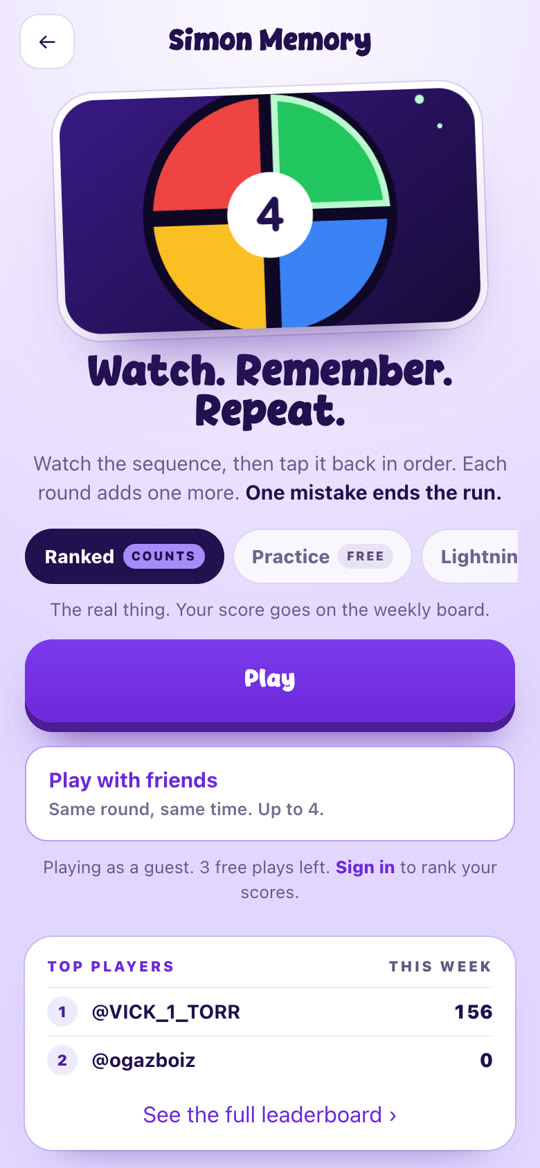
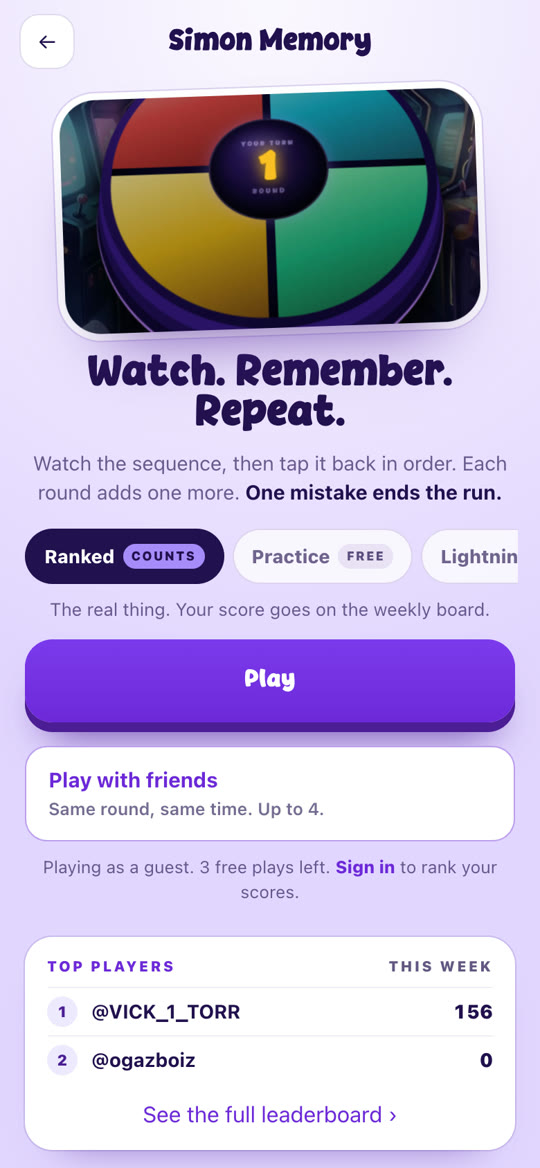
Game cards show the real game
The Stack Tower, Simon Memory, Rhythm Rush and Challenge AI cards are
now pictures taken from the games themselves, the way the UP NEPA 3D
and Street Strike cards are: a rainbow tower mid-build over the Lagos
skyline, the Simon pad on its turn, notes coming down the Rhythm lanes,
and MARKOV. They replace the flat drawings added earlier today, which
did not look like the games.

README screenshots retaken.

Changed region(s): [[0.0889, 0.0616, 0.8889, 0.3082]]

diff --git a/frontend/components/home/HomeGames.tsx b/frontend/components/home/HomeGames.tsx
@@ -21,13 +21,13 @@ type Tag = "skill" | "3d" | "ai";
 interface GameCard { id: string; title: string; tag: Tag; line: string; cover: string; focus: string; href: string; accent: string }
 
 export const HOME_GAMES: GameCard[] = [
-  { id: "stack", title: "Stack Tower", tag: "skill", line: "Drop the block. Stack it clean.", cover: "/games/covers/stack.svg", focus: "50% 60%", href: "/games/stack", accent: "#fb923c" },
+  { id: "stack", title: "Stack Tower", tag: "skill", line: "Drop the block. Stack it clean.", cover: "/games/covers/stack.jpg", focus: "50% 60%", href: "/games/stack", accent: "#fb923c" },
   { id: "ladder", title: "Word Ladder", tag: "skill", line: "Change one letter. Reach the word.", cover: "/games/covers/ladder.svg", focus: "50% 20%", href: "/games/ladder", accent: "#4ade80" },
   { id: "streetstrike", title: "Street Strike", tag: "3d", line: "Roll the tyre. Scatter the bottles.", cover: "/games/covers/streetstrike.jpg", focus: "50% 55%", href: "/bowling", accent: "#c084fc" },
-  { id: "simon", title: "Simon Memory", tag: "skill", line: "Watch. Remember. Repeat.", cover: "/games/covers/simon.svg", focus: "50% 45%", href: "/games/simon", accent: "#22d3ee" },
+  { id: "simon", title: "Simon Memory", tag: "skill", line: "Watch. Remember. Repeat.", cover: "/games/covers/simon.jpg", focus: "50% 45%", href: "/games/simon", accent: "#22d3ee" },
   { id: "upnepa3d", title: "UP NEPA 3D", tag: "3d", line: "Bring the light back to the street.", cover: "/games/covers/upnepa3d.jpg", focus: "58% 45%", href: "/world", accent: "#fbbf24" },
-  { id: "arena", title: "Challenge AI", tag: "ai", line: "Beat MARKOV at mind games.", cover: "/games/covers/challenge-ai.svg", focus: "50% 55%", href: "/games/challenge-ai", accent: "#fde68a" },
-  { id: "rhythm", title: "Rhythm Rush", tag: "skill", line: "Tap the beat. Chain the combo.", cover: "/games/covers/rhythm.svg", focus: "50% 40%", href: "/games/rhythm", accent: "#f0abfc" },
+  { id: "arena", title: "Challenge AI", tag: "ai", line: "Beat MARKOV at mind games.", cover: "/games/covers/challenge-ai.jpg", focus: "50% 55%", href: "/games/challenge-ai", accent: "#fde68a" },
+  { id: "rhythm", title: "Rhythm Rush", tag: "skill", line: "Tap the beat. Chain the combo.", cover: "/games/covers/rhythm.jpg", focus: "50% 40%", href: "/games/rhythm", accent: "#f0abfc" },
 ];
 const FILTERS: { id: "all" | Tag; label: string }[] = [
   { id: "all", label: "All" },

diff --git a/frontend/app/games/page.tsx b/frontend/app/games/page.tsx
@@ -62,7 +62,7 @@ const GAMES_3D = [
 const GAMES = [
   {
     id: "rhythm",
-    cover: "/games/covers/rhythm.svg",
+    cover: "/games/covers/rhythm.jpg",
     focus: "50% 40%",
     title: "Rhythm Rush",
     subtitle: "Tap to the beat · combo to climb",
@@ -74,7 +74,7 @@ const GAMES = [
   },
   {
     id: "simon",
-    cover: "/games/covers/simon.svg",
+    cover: "/games/covers/simon.jpg",
     focus: "50% 45%",
     title: "Simon Memory",
     subtitle: "Sequence memory · go deeper",
@@ -118,7 +118,7 @@ const GAMES = [
     // identity. Schema also normalized from artGrad/path to bg/href so
     // the card actually paints (the render reads game.bg, game.href).
     id: "stack",
-    cover: "/games/covers/stack.svg",
+    cover: "/games/covers/stack.jpg",
     focus: "50% 60%",
     title: "Stack Tower",
     subtitle: "Stack & survive · don't drop",
@@ -150,7 +150,7 @@ const GAMES = [
   },
   {
     id: "challenge-ai",
-    cover: "/games/covers/challenge-ai.svg",
+    cover: "/games/covers/challenge-ai.jpg",
     focus: "50% 55%",
     title: "Challenge AI",
     subtitle: "Outsmart MARKOV · or send your own AI",

diff --git a/frontend/app/dashboard/page.tsx b/frontend/app/dashboard/page.tsx
@@ -195,10 +195,10 @@ const STACK_ART = (
 const COVERS: Record<string, { src: string; focus: string }> = {
   upnepa3d: { src: "/games/covers/upnepa3d.jpg", focus: "58% 45%" },
   streetstrike: { src: "/games/covers/streetstrike.jpg", focus: "50% 55%" },
-  stack: { src: "/games/covers/stack.svg", focus: "50% 60%" },
-  rhythm: { src: "/games/covers/rhythm.svg", focus: "50% 40%" },
-  simon: { src: "/games/covers/simon.svg", focus: "50% 45%" },
-  arena: { src: "/games/covers/challenge-ai.svg", focus: "50% 55%" },
+  stack: { src: "/games/covers/stack.jpg", focus: "50% 60%" },
+  rhythm: { src: "/games/covers/rhythm.jpg", focus: "62% 40%" },
+  simon: { src: "/games/covers/simon.jpg", focus: "50% 45%" },
+  arena: { src: "/games/covers/challenge-ai.jpg", focus: "50% 55%" },
 };
 const GAMES_3D: Game[] = [
   {

diff --git a/frontend/app/games/rhythm/page.tsx b/frontend/app/games/rhythm/page.tsx
@@ -2429,7 +2429,7 @@ function IdleView({ room, songs, songId, todayId, onPickSong, mode, onPickMode, 
       title="Rhythm Rush"
       headline={<>Tap the beat.<br />Chain the combo.</>}
       rules={<>Tap each note as it reaches the line. Combos multiply your score. <b>On a keyboard: A S D F or the arrow keys.</b></>}
-      cover="/games/covers/rhythm.svg" focus="50% 40%"
+      cover="/games/covers/rhythm.jpg" focus="50% 40%"
       onExit={onExit} onStart={onStart}
       modes={MODES} mode={mode} onPickMode={onPickMode}
       gameType={0} onLeaderboard={onLeaderboard}

diff --git a/frontend/app/games/simon/page.tsx b/frontend/app/games/simon/page.tsx
@@ -1326,7 +1326,7 @@ function IdleView({ room, mode, onPickMode, challenge, onStart, onExit, onLeader
       title="Simon Memory"
       headline={<>Watch. Remember.<br />Repeat.</>}
       rules={<>Watch the sequence, then tap it back in order. Each round adds one more. <b>One mistake ends the run.</b></>}
-      cover="/games/covers/simon.svg" focus="50% 45%"
+      cover="/games/covers/simon.jpg" focus="50% 45%"
       onExit={onExit} onStart={onStart}
       modes={MODES} mode={mode} onPickMode={onPickMode}
       gameType={1} onLeaderboard={onLeaderboard}

diff --git a/frontend/app/games/stack/page.tsx b/frontend/app/games/stack/page.tsx
@@ -1264,7 +1264,7 @@ export default function StackTowerPage() {
           title="Stack Tower"
           headline={<>Drop the block.<br />Stack it clean.</>}
           rules={<>Tap to drop. Anything hanging over the edge gets sliced off. <b>A perfect drop keeps the full width</b> and builds a combo.</>}
-          cover="/games/covers/stack.svg" focus="50% 60%"
+          cover="/games/covers/stack.jpg" focus="50% 60%"
           onExit={() => router.push("/dashboard")}
           onStart={startGame}
           modes={MODES} mode={mode} onPickMode={setMode}
